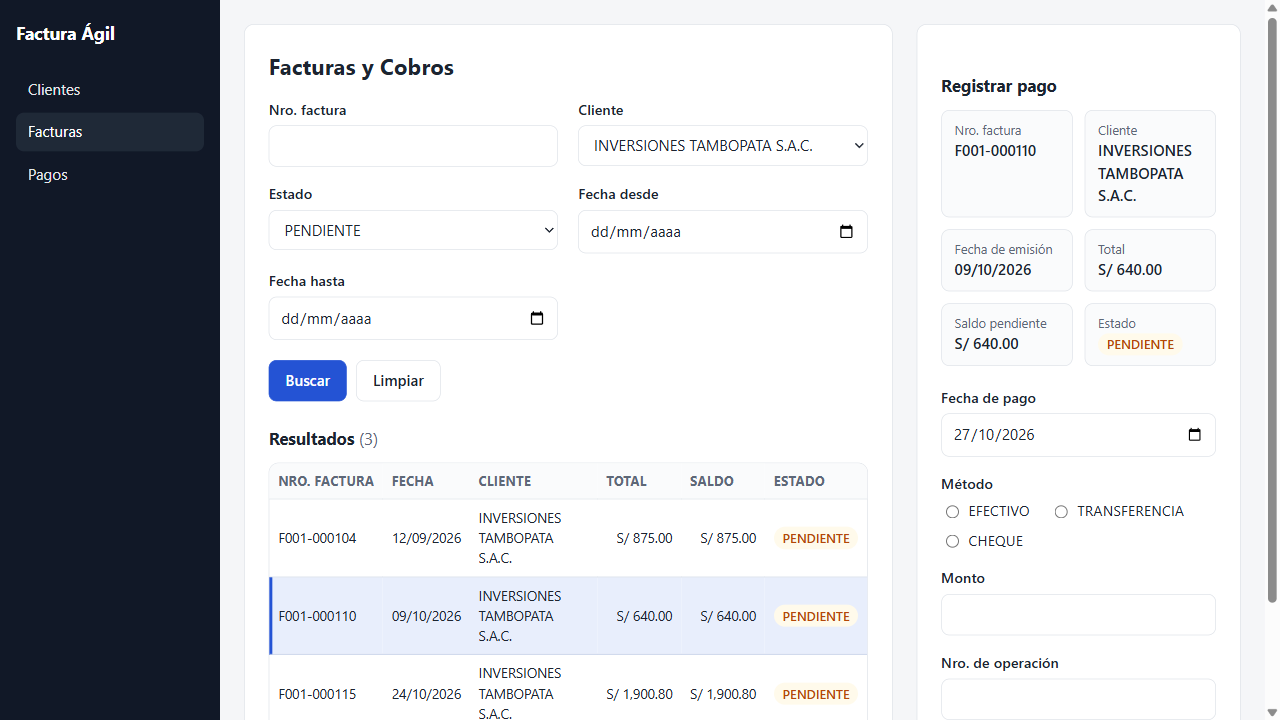
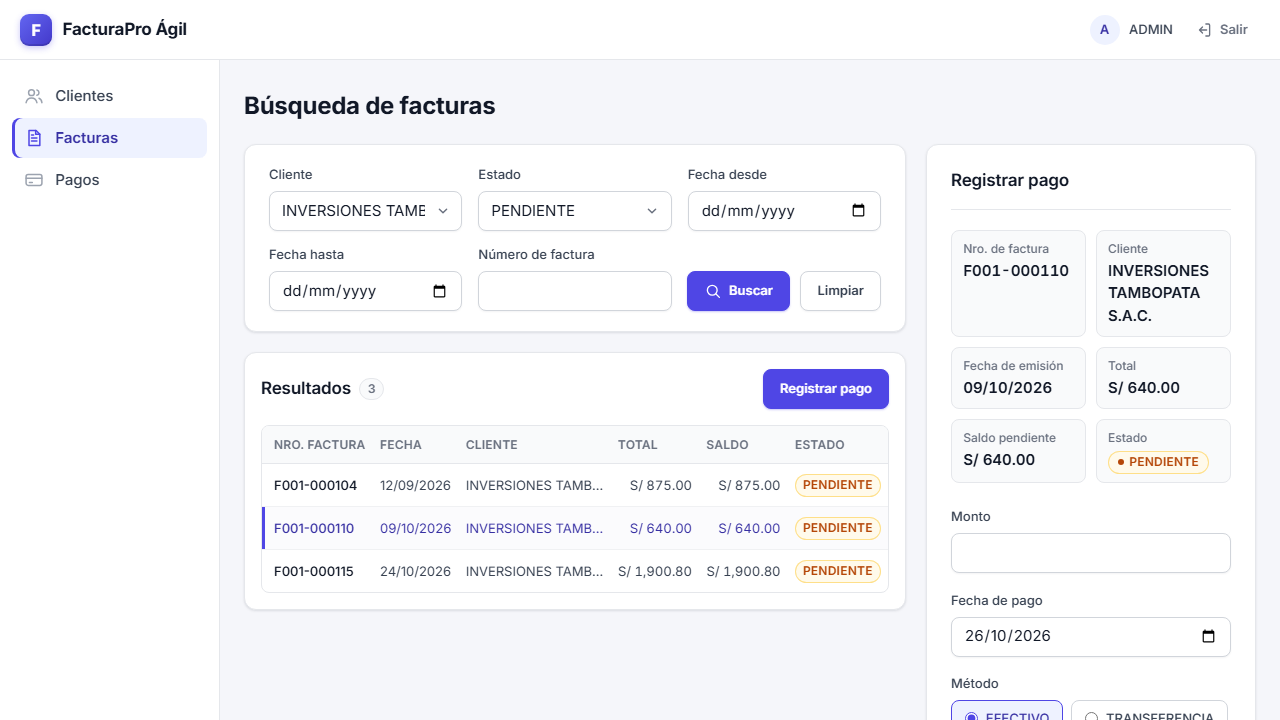
docs: update results after the app redesign
New screenshot of the generated app, the builder and verifier results of
the rebuilt samples, the English change reasons, the token cost of the
rebuild, and a note that the broken-copy check was not re-run with the new
design.

diff --git a/docs/arquitectura.md b/docs/arquitectura.md
@@ -163,14 +163,14 @@ uv run python runs/<id>/app/app.py        # http://127.0.0.1:5001
 ```
 
 **El modelo nunca escribe código.** La app se arma con dos piezas:
-- un **runtime** fijo que escribimos y probamos una vez (`rewind/builder/runtime/`: Flask + SQLite, interfaz moderna);
+- un **runtime** fijo que escribimos y probamos una vez (`rewind/builder/runtime/`: Flask + SQLite, interfaz moderna: cabecera con el nombre de la app, menú lateral con íconos, tarjetas, tablas en una línea con «…» y el valor completo al pasar el mouse, estados con color según su significado, y la fuente Inter incluida, sin CDN);
 - un **spec** en JSON que llena Muse Spark Open y que validan pydantic y los chequeos de `rewind/builder/spec.py`.
 
 Si un chequeo falla, el error vuelve al modelo y la llamada se reintenta. Una respuesta guardada en caché se vuelve a revisar con los chequeos actuales.
 
 1. **Datos iniciales.** Muse Spark copia las filas de cada tabla del primer cuadro donde aparece con datos: los 6 clientes y las 3 facturas de TAMBOPATA. Ese es el estado antes de que el usuario cambie algo. El número de filas debe coincidir con el que vio el agente 1, y no se inventan registros que no salen en el video.
 2. **Modelo de datos.** Define las entidades (cliente, factura, pago) con campos tipados. Un código `serial` (como C0006) solo vale si los códigos vistos son 1, 2, 3… seguidos; los números de factura (F001-000110) quedan como texto.
-3. **Modernización.** El modelo propone cambios de una lista fija, cada uno con su motivo y los pasos del video que lo justifican:
+3. **Modernización.** El modelo propone cambios de una lista fija, cada uno con su motivo (en inglés, porque va al informe) y los pasos del video que lo justifican:
    - unir la búsqueda y el pago en una sola página;
    - errores junto al campo en vez de un diálogo;
    - un aviso que se cierra solo en vez de un ACEPTAR;
@@ -195,12 +195,12 @@ Si un chequeo falla, el error vuelve al modelo y la llamada se reintenta. Una re
 
 Resultado en el video de ejemplo:
 - **4/4 flujos pasan**, con 29 pasos, 3 de ellos absorbidos por los cambios.
-- **34 de 36 elementos antiguos** se conservan; los otros 2 (los botones LIMPIAR) se quitaron a propósito porque ningún paso los usa.
-- **9 cambios de modernización.** Un cambio que deja todo igual que el programa antiguo no cuenta: "FECHA PAGO empieza con la fecha de hoy" se descartó porque la pantalla antigua ya lo hacía.
+- **36 de 36 elementos antiguos** se conservan. En una corrida anterior el modelo quitó los 2 botones LIMPIAR porque ningún paso los usa; en la última los dejó.
+- **7 cambios de modernización** (fueron 9 en la corrida anterior: el modelo no propone siempre la misma lista). Un cambio que deja todo igual que el programa antiguo no cuenta: "FECHA PAGO empieza con la fecha de hoy" se descartó porque la pantalla antigua ya lo hacía.
 - **Valores iniciales:** los campos de un formulario nuevo empiezan como en la grabación (FECHA PAGO = hoy, METODO = EFECTIVO). El checker lo exige y la prueba lo comprueba al abrir la pantalla; si se quita EFECTIVO, la prueba del pago falla.
 - **Fecha de la grabación:** las pruebas arrancan la app con `APP_TODAY` igual al día que el programa antiguo mostraba como hoy (26/10/2026). Ese día sale de las fechas con que empezaban sus formularios o, si no hay, de la barra de estado, y queda en `tests/recording.json`. Así "hoy" muestra lo mismo que el video y las capturas del verificador no cambian de un día a otro. Fuera de las pruebas, la app usa la fecha real.
 - **Prueba de que las pruebas miden algo:** si se quita la fórmula del saldo, la prueba del pago falla en el paso 28 ("no muestra S/ 340.00"); si se quita el campo obligatorio, falla la del cliente.
-- **Costo:** unos 115 mil tokens (8 llamadas); repetir cuesta 0.
+- **Costo:** unos 100 mil tokens (7 a 9 llamadas); repetir cuesta 0.
 
 ## Agente 4: verificador
 
@@ -241,6 +241,8 @@ Verifica la app sana y 3 copias rotas en `runs/<id>/eval/`. La app sana no debe 
 | Sin EFECTIVO | 22 en la prueba (METODO empieza vacío) | abrir REGISTRAR PAGO y las del pago |
 
 Las copias solo pagan las capturas que cambian: unos 35 mil tokens en total. Repetir cuesta 0.
+
+**Pendiente tras el rediseño (noviembre de 2026):** esta prueba no se volvió a correr después de cambiar el diseño de la app nueva. La tabla de arriba y la de la clínica son de la versión anterior, y sus copias siguen en `runs/<id>/eval/` con ese diseño. Volver a correrla costaría unos 260 mil tokens, porque cambian todas las capturas.
 
 ## Todo de una vez: `rewind run` e informe HTML
 
@@ -290,15 +292,17 @@ uv run python scripts/eval_verifier.py runs/<id>
 - **Página unida:** al cancelar o al fallar una reserva en el panel, la agenda vuelve con la misma búsqueda, como en el programa antiguo.
 - **Repetición:** cada paso busca solo el tipo de elemento que usa (un campo, una lista o un botón), porque en la página unida PACIENTE es a la vez columna y campo. Una fila leída con poca confianza se prueba también con sus otras lecturas.
 - **Verificación:** el largo de la clave enmascarada no cuenta, porque la prueba usa su propia clave.
+- **Mensajes completos en un diálogo:** el diálogo de error agregaba siempre el nombre del campo en una segunda línea, como hacía la facturación ("CAMPO OBLIGATORIO" y debajo "RUC / DNI"). El `E-305` de la clínica ya trae el texto completo y quedaba con un "PACIENTE" de más, que el verificador marcó como falla al rediseñar la app. Ahora el nombre del campo solo se agrega a los mensajes cortos.
 
 **Resultado:**
 - **Pantallas:** 99 % de acierto (99/100; una fecha de solo lectura se leyó como texto) y 100 % de precisión.
 - **Flujos:** 41/41 pasos, 12/12 valores, 4/4 flujos y 6/6 reglas. La agrupación en flujos cambió entre corridas: una vez juntó la búsqueda con el intento fallido (2/4).
 - **Constructor:** 4/4 flujos repetidos con éxito y 35 de 35 elementos antiguos conservados.
-- **Verificador:** 35 pasos pasan, 0 fallan y 3 quedan dudosos, porque el aviso CITA RESERVADA tapa el nombre del paciente en el video. 10 de 12 reglas pasan y 2 quedan dudosas.
-- **Copias rotas:** detecta las 3. Sin APELLIDOS obligatorio falla el paso del `E-101`; sin el control del turno tomado falla el del `E-305`. Si la reserva no marca el turno como RESERVADA, la prueba no lo nota (la página sigue diciendo RESERVADA en otras filas): lo detecta solo Muse Spark al comparar las capturas (09:30 sigue LIBRE).
+- **Verificador:** 36 pasos pasan, 0 fallan y 2 quedan dudosos: en uno el cuadro clave se tomó después de pasos posteriores, y en el otro el aviso CITA RESERVADA tapa el nombre del paciente en el video. 9 de 12 reglas pasan y 3 quedan dudosas por esos dos pasos.
+- **Copias rotas** (con el diseño anterior de la app): detecta las 3. Sin APELLIDOS obligatorio falla el paso del `E-101`; sin el control del turno tomado falla el del `E-305`. Si la reserva no marca el turno como RESERVADA, la prueba no lo nota (la página sigue diciendo RESERVADA en otras filas): lo detecta solo Muse Spark al comparar las capturas (09:30 sigue LIBRE).
 - **Facturación:** se volvió a correr entera (`rewind run`) con el código nuevo y 0,2 s; sus resultados de arriba son los de esa corrida.
 - **Costo:** unos 1,2 millones de tokens en total, incluidas cuatro reconstrucciones mientras se arreglaba lo anterior. Repetir cuesta 0.
+- **Rediseño de la app (noviembre de 2026):** reconstruir y volver a verificar las dos apps costó 689 mil tokens: 254 mil del constructor (16 llamadas) y 435 mil del verificador (67 comparaciones). Las corridas anteriores quedaron copiadas en `runs/backup-before-restyle/`.
 
 ## Proveedor de modelos
 

diff --git a/README.md b/README.md
@@ -30,8 +30,8 @@ Más detalle en [docs/arquitectura.md](docs/arquitectura.md).
 | Configuración de proveedor (Baseten / Fireworks) | Lista |
 | Agente 1: pantallas | Listo: 100 % de acierto en facturación (110/110) y 99 % en la clínica (99/100) |
 | Agente 2: flujos | Listo: 100 % en los dos videos (facturación: 29/29 pasos, 11/11 valores, 4/4 flujos, 7/7 reglas; clínica: 41/41, 12/12, 4/4, 6/6) |
-| Agente 3: constructor | Listo: 4/4 flujos repetidos con éxito en cada app (9 cambios justificados en facturación, 7 en la clínica) |
-| Agente 4: verificador | Listo: facturación 25/26 pasos y 10/10 reglas; clínica 35/38 pasos y 10/12 reglas; 0 fallas, el resto dudosos. Detecta 3 de 3 copias rotas en cada app |
+| Agente 3: constructor | Listo: 4/4 flujos repetidos con éxito en cada app (7 cambios justificados en facturación y 7 en la clínica, con su motivo en inglés) |
+| Agente 4: verificador | Listo: facturación 25/26 pasos y 10/10 reglas; clínica 36/38 pasos y 9/12 reglas; 0 fallas, el resto dudosos. Detecta 3 de 3 copias rotas en cada app (medido con el diseño anterior de la app) |
 | Segunda app: citas de una clínica, grabada rápido | Lista: otra estética, otro formato de errores y una regla nueva; sus resultados están en las filas de arriba |
 
 ## Tecnologías

diff --git a/README.en.md b/README.en.md
@@ -29,8 +29,8 @@ More detail in [docs/arquitectura.md](docs/arquitectura.md) (Spanish).
 | Provider config (Baseten / Fireworks) | Done |
 | Agent 1: screens | Done: 100% accuracy on billing (110/110) and 99% on the clinic (99/100) |
 | Agent 2: flows | Done: 100% on both videos (billing: 29/29 steps, 11/11 values, 4/4 workflows, 7/7 rules; clinic: 41/41, 12/12, 4/4, 6/6) |
-| Agent 3: builder | Done: 4/4 workflows replayed successfully in each app (9 justified changes in billing, 7 in the clinic) |
-| Agent 4: verifier | Done: billing 25/26 steps and 10/10 rules; clinic 35/38 steps and 10/12 rules; 0 fails, the rest unclear. Catches 3 of 3 broken copies in each app |
+| Agent 3: builder | Done: 4/4 workflows replayed successfully in each app (7 justified changes in billing and 7 in the clinic, each with its reason in English) |
+| Agent 4: verifier | Done: billing 25/26 steps and 10/10 rules; clinic 36/38 steps and 9/12 rules; 0 fails, the rest unclear. Catches 3 of 3 broken copies in each app (measured with the app's previous design) |
 | Second app: clinic appointments, recorded fast | Done: another look, another error format and a new rule; its results are in the rows above |
 
 ## Stack
